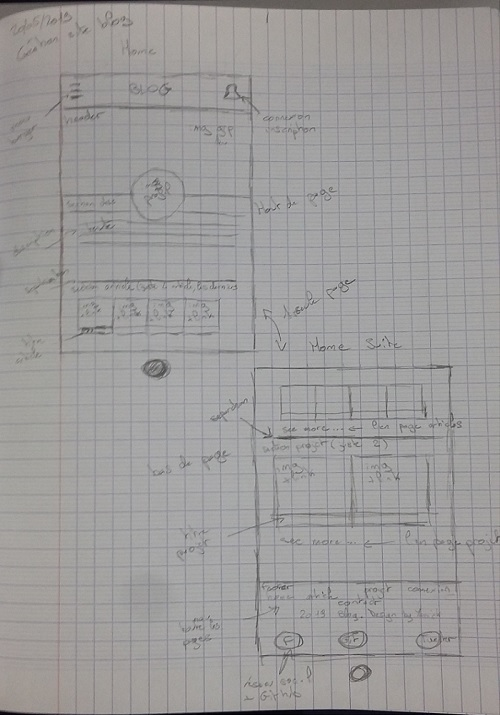
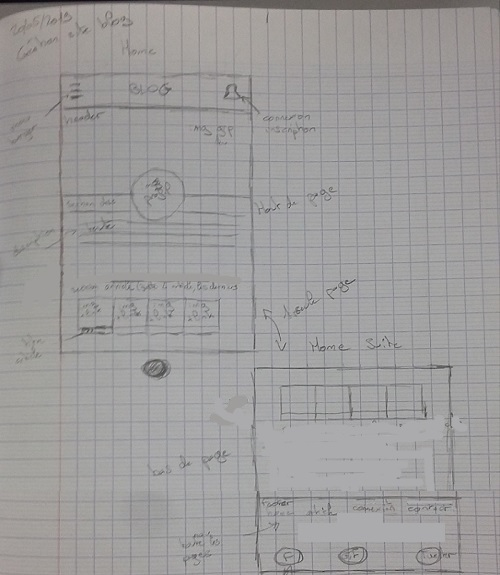
modif css div img profil

diff --git a/assets/css/styles.css b/assets/css/styles.css
@@ -98,15 +98,18 @@ header img{
 }
 
 .div_profil{
-  width: 100px;
-  height: 100px;
+  width: 100%;
   position: absolute;
   top: 75%;
-  left: 35%;
+  left: 0;
+  display: flex;
+  justify-content: center;
 }
 
 .img_profil{
   border-radius: 50%;
+  width: 100px;
+  height: 100px;
 }
 /*fin header
   section general*/
@@ -322,7 +325,7 @@ footer nav ul{
   padding: 0;
   display: grid;
   grid-template-rows: 1fr;
-  grid-template-columns: 1fr 1fr 1fr 1fr;
+  grid-template-columns: 1fr 1fr 1fr;
   grid-template-areas: ". . . .";
 }
 

diff --git a/allArticlesP1.html b/allArticlesP1.html
@@ -17,7 +17,6 @@
 					<li><a href="index.html">Home</a></li>
 					<li><a href="allArticlesP1.html">Articles</a></li>
 					<li><a href="#">Connexion</a></li>
-					<li><a href="#">Contact</a></li>
 				</ul>
 			</nav>
 		</div>
@@ -111,7 +110,6 @@
 				<li><a href="index.html">Home</a></li>
 				<li><a href="allArticlesP1.html">Articles</a></li>
 				<li><a href="#">Connexion</a></li>
-				<li><a href="#">Contact</a></li>
 			</ul>
 		</nav>
 		<div>

diff --git a/allArticlesP2.html b/allArticlesP2.html
@@ -17,7 +17,6 @@
 					<li><a href="index.html">Home</a></li>
 					<li><a href="allArticlesP1.html">Articles</a></li>
 					<li><a href="#">Connexion</a></li>
-					<li><a href="#">Contact</a></li>
 				</ul>
 			</nav>
 		</div>
@@ -111,7 +110,6 @@
 				<li><a href="index.html">Home</a></li>
 				<li><a href="allArticlesP1.html">Articles</a></li>
 				<li><a href="#">Connexion</a></li>
-				<li><a href="#">Contact</a></li>
 			</ul>
 		</nav>
 		<div>

diff --git a/article.html b/article.html
@@ -17,7 +17,6 @@
 					<li><a href="index.html">Home</a></li>
 					<li><a href="allArticlesP1.html">Articles</a></li>
 					<li><a href="#">Connexion</a></li>
-					<li><a href="#">Contact</a></li>
 				</ul>
 			</nav>
 		</div>
@@ -64,7 +63,6 @@
 				<li><a href="index.html">Home</a></li>
 				<li><a href="allArticlesP1.html">Articles</a></li>
 				<li><a href="#">Connexion</a></li>
-				<li><a href="#">Contact</a></li>
 			</ul>
 		</nav>
 		<div>

diff --git a/index.html b/index.html
@@ -17,7 +17,6 @@
 					<li><a href="index.html">Home</a></li>
 					<li><a href="allArticlesP1.html">Articles</a></li>
 					<li><a href="#">Connexion</a></li>
-					<li><a href="#">Contact</a></li>
 				</ul>
 			</nav>
 		</div>
@@ -79,7 +78,6 @@
 				<li><a href="index.html">Home</a></li>
 				<li><a href="allArticlesP1.html">Articles</a></li>
 				<li><a href="#">Connexion</a></li>
-				<li><a href="#">Contact</a></li>
 			</ul>
 		</nav>
 		<div>
